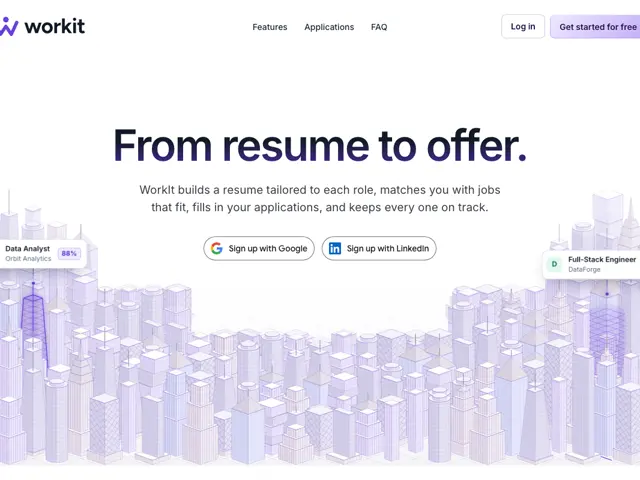
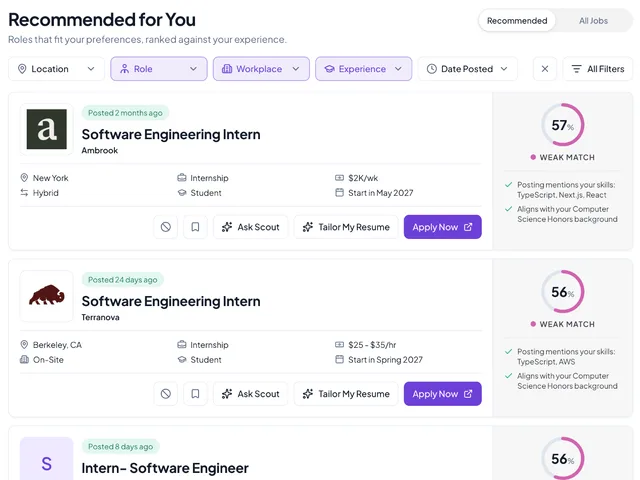
Show WorkIt's job board on its project card

diff --git a/src/content/writeups/workit.md b/src/content/writeups/workit.md
@@ -14,7 +14,7 @@ summary: >-
   workflow's dry run on pull requests caught a database schema mismatch before it merged.
 photo:
   src: /images/workit.webp
-  alt: WorkIt's landing page, with its headline and sign-up buttons above an illustrated city
+  alt: WorkIt's job board, listing internship postings with location, pay and start date beside a match score for each
 demo:
   url: https://workit-web-gamma.vercel.app
   label: Demo (in development, sign-in required)
